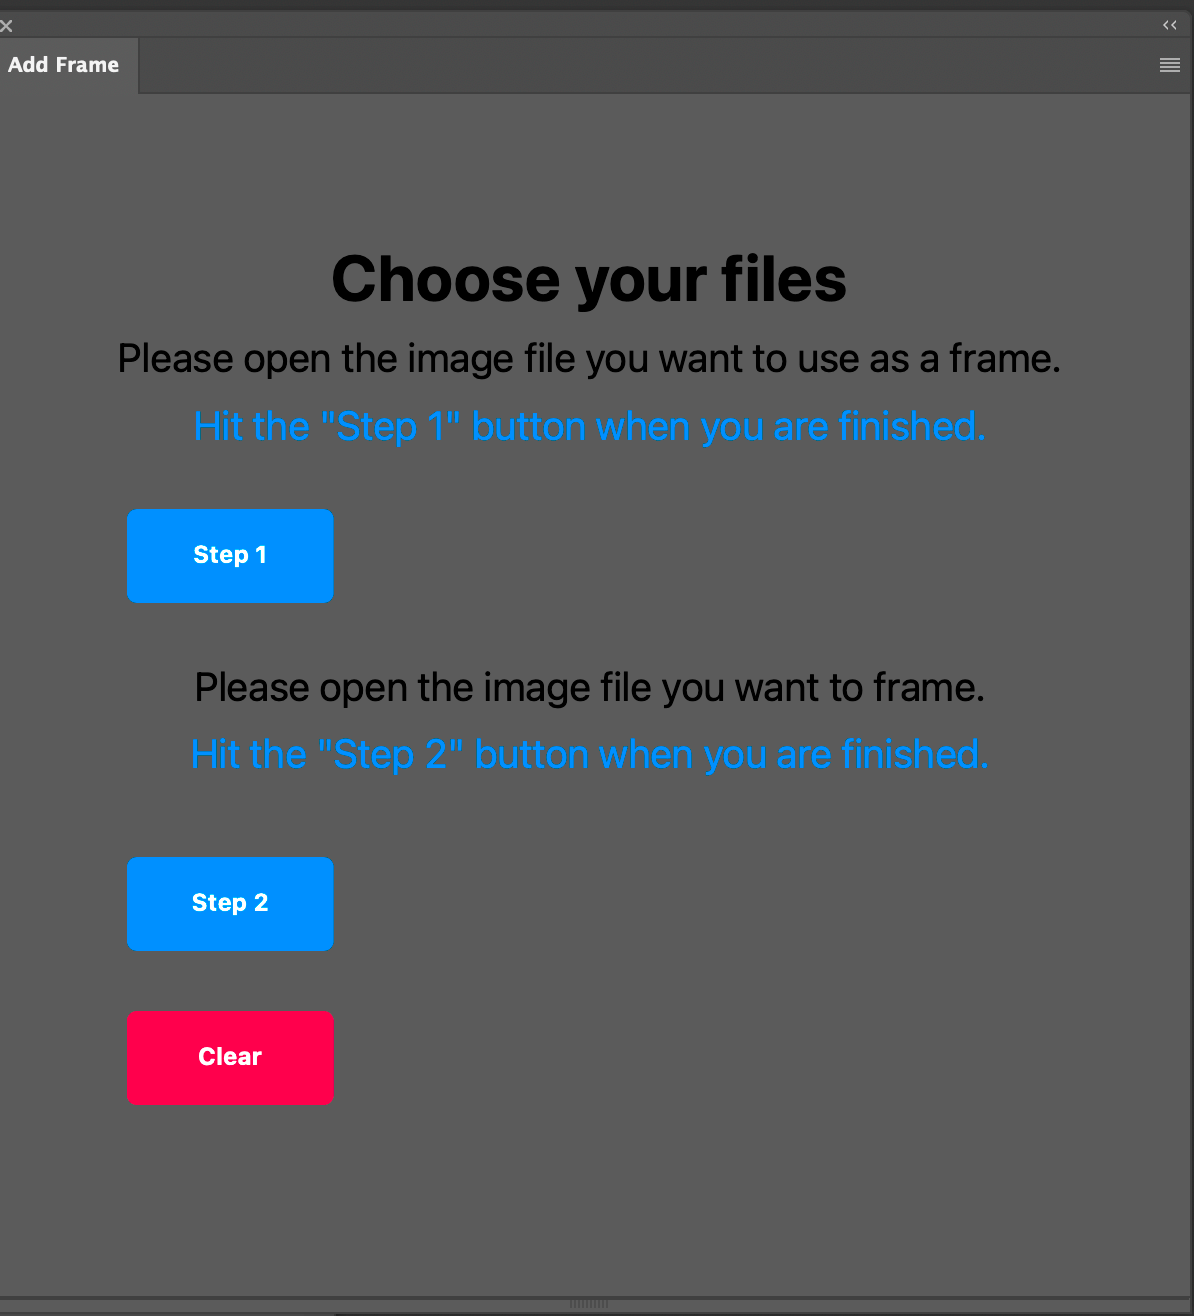
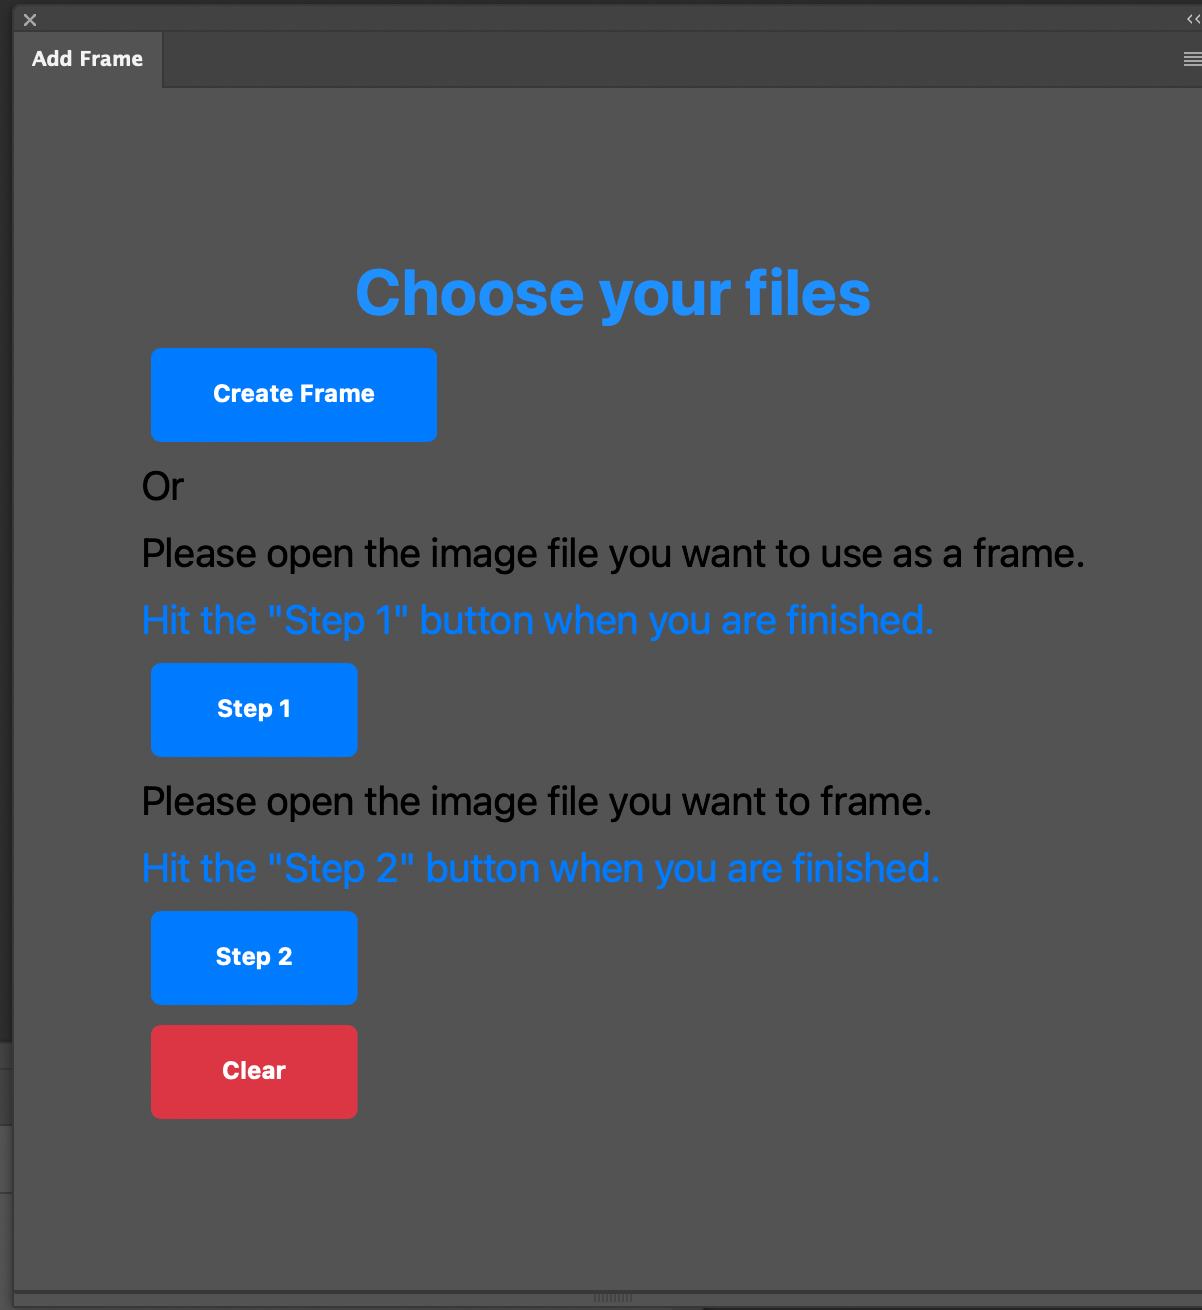
updating readme

Changed region(s): [[0.093, 0.1832, 0.8987, 0.855], [0.9606, 0.0305, 1.0, 1.0], [0.0, 0.0, 0.124, 0.8855]]

diff --git a/README.md b/README.md
@@ -4,23 +4,25 @@ Automated generation of a virtual frame for an image
 This project is designed to add virtual frames to an image in Photoshop.
 
 ### Some of the features:
+* Create the base frame with Generative Fill or use your own.
 * Works with arbitrary aspect ratios
 * Adds text field for the title
 * Adds a mat with a user chosen color
 
 ## Installation:
   This is a photoshop plug-in and you need the ccx file.
-  This will be updated as I progress
+  It will be available in the Photoshop Marketplace or if you fork the code you can generate your own
 
 ## Useage:
-    After installation you got to Plugins>Add Frame>Add Frame
+    After installation you go to Plugins>Add Frame>Add Frame
 
 ## Setting the items:
   You will be presented with this panel  
   
    ![Choose Files](assets/choosefiles.png)
+1. Create the base frame or choose a file. To create a frame [See here](#Creating-a-Base-Frame)  
 1. Choose the frame file and make it active.
-2. Press "Step 1" button.
+2. {#step1}Press "Step 1" button.
 3. Note that any layer effects on the frame will be disabled. This may change the appearance of the frame. Don't worry. They will be re-enabled after processing.
 3. Open the image you want to frame
 4. Press "Step 2" button
@@ -54,3 +56,12 @@ The generated file will have the following layers:
 4. mat color: filed with the color you chose.
 
 You can alter these layers as you like. Changing the font, size and location of the title, the color of the mat, etc. You can also change the frame color by editing the layer properties of "frame".
+
+## Creating a Base Frame
+![Create](assets/createframe.png)
+1. Fill out the dimensions of the frame in pixels. You should specify something roughly the size of your images to avoid pixelization when the frame is stretched around the image.
+2. Choose the border widths.
+3. Generative Fill is used to create the borders. Leave the prompt blank if you want a solid black border.
+4. If you choose editable then the build process will pause while you interact with generative fill. Otherwise it will just take the first option.
+5. Click Create Frame to generate the frame.
+6. [Go to this step](#step1)
